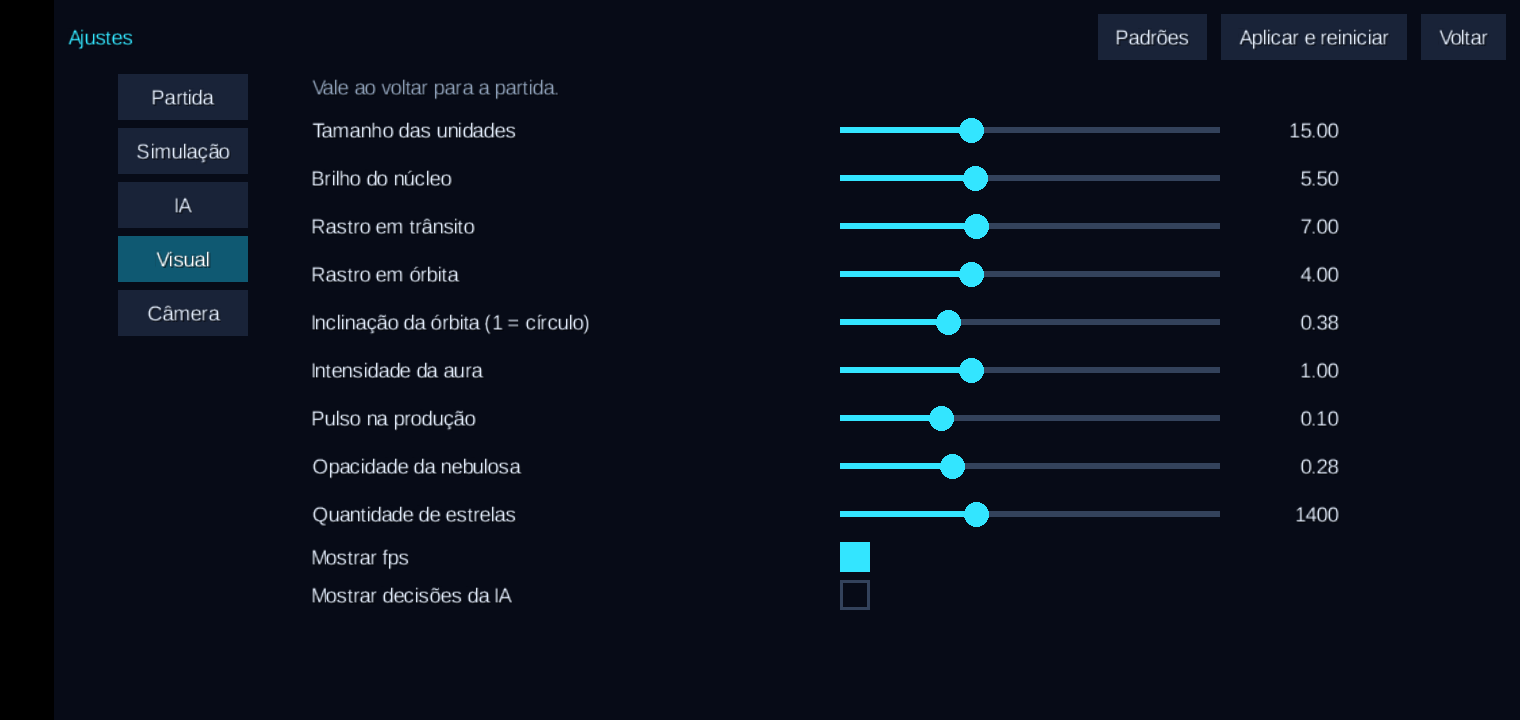
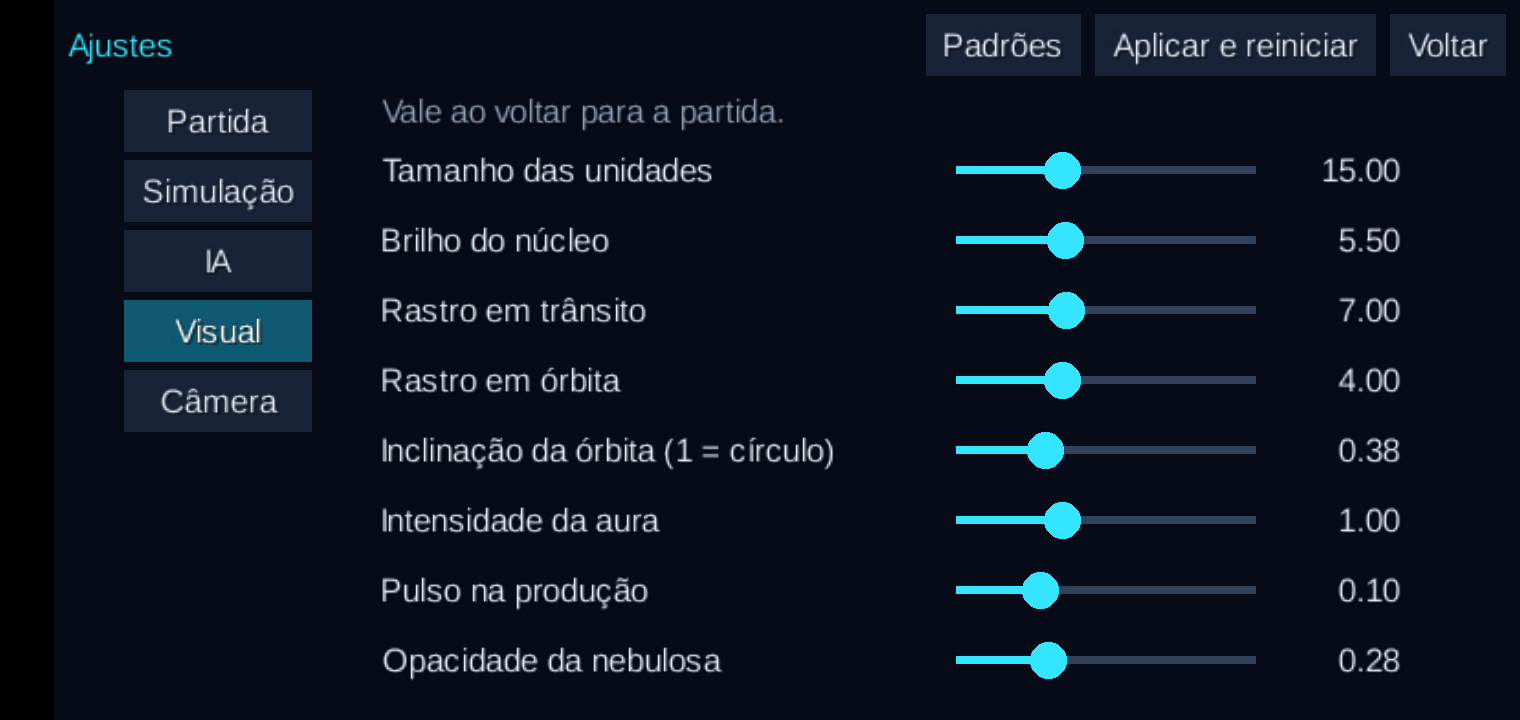
docs: capturas atuais de todas as telas (partida, IA, mapas, ajustes); rótulos sem o símbolo de grau

diff --git a/game/src/main/kotlin/dev/orbita/game/settings/Params.kt b/game/src/main/kotlin/dev/orbita/game/settings/Params.kt
@@ -99,8 +99,8 @@ object Params {
     val DEBUG_AI = bool("visual.debugAi", "Mostrar decisões da IA", Category.VISUAL, false)
 
     // ---- Câmera ----
-    val MAX_PITCH = p("camera.maxPitch", "Inclinação máxima ao aproximar (°)", Category.CAMERA, 0f, 70f, 1f, 42f)
-    val FOV = p("camera.fov", "Campo de visão (°)", Category.CAMERA, 20f, 80f, 1f, 40f)
+    val MAX_PITCH = p("camera.maxPitch", "Inclinação máxima ao aproximar (graus)", Category.CAMERA, 0f, 70f, 1f, 42f)
+    val FOV = p("camera.fov", "Campo de visão (graus)", Category.CAMERA, 20f, 80f, 1f, 40f)
     val MIN_ZOOM = p("camera.minZoom", "Zoom máximo de aproximação", Category.CAMERA, 0.2f, 0.95f, 0.01f, 0.42f)
     val MAX_ZOOM = p("camera.maxZoom", "Zoom máximo de afastamento", Category.CAMERA, 1f, 4f, 0.05f, 2.2f)
     val EDGE_RESISTANCE = p("camera.edgeResistance", "Resistência além da borda", Category.CAMERA, 0.05f, 1f, 0.01f, 0.45f)

diff --git a/README.md b/README.md
@@ -4,7 +4,9 @@
 Kotlin + libGDX, simulação determinística, bots com IA própria e 13 mapas. Feito num único dia de trabalho,
 em par com um agente de IA (Claude Code).
 
-![Partida no Órbita](docs/img/evolucao-5-texturas.png)
+![Fim de partida no Órbita: planetas evoluídos com vários planos de órbita](docs/img/planetas-evoluidos.png)
+
+*Fim de partida no Galaxy A10: o bot Agressivo (âmbar) domina com ~3.900 unidades, e o overlay mostra as decisões da IA.*
 
 > **Sobre a origem:** o projeto começou como um teste do **REA** (ferramenta de engenharia reversa via MCP)
 > usando o jogo *Auralux: Constellations* como alvo de estudo. O objetivo era validar o REA num caso real.
@@ -25,9 +27,29 @@ anulam um a um. Vence quem sobrar.
 - **Menu de ajustes** com ~60 parâmetros de simulação, IA, visual e câmera, todos editáveis no próprio jogo.
 - **60 fps** num Galaxy A10 (aparelho de entrada, ARMv7), com milhares de unidades na tela.
 
-| Mapas | Perspectiva | Ajustes da IA |
+## Telas
+
+Todas as capturas foram feitas num Galaxy A10 (Android 11) via ADB.
+
+| Partida | Decisões da IA | Câmera aproximada |
 |---|---|---|
-| ![Mapas](docs/img/mapas.png) | ![Perspectiva](docs/img/perspectiva.png) | ![Ajustes](docs/img/ajustes-ia.png) |
+| ![Partida](docs/img/partida.png) | ![Overlay da IA](docs/img/ia-overlay.png) | ![Perspectiva](docs/img/perspectiva.png) |
+
+**Mapas**
+
+| Menu de mapas | Quadrante (4 facções) | Infinito (4 facções) |
+|---|---|---|
+| ![Mapas](docs/img/mapas.png) | ![Quadrante](docs/img/mapa-quadrante.png) | ![Infinito](docs/img/mapa-infinito.png) |
+| **Cisão** | **Explosão** | **Hexágono** |
+| ![Cisão](docs/img/mapa-cisao.png) | ![Explosão](docs/img/mapa-explosao.png) | ![Hexágono](docs/img/mapa-hexagono.png) |
+
+**Ajustes:** tudo pode ser alterado sem recompilar.
+
+| Partida | Simulação | IA |
+|---|---|---|
+| ![Ajustes: Partida](docs/img/ajustes-partida.png) | ![Ajustes: Simulação](docs/img/ajustes-simulacao.png) | ![Ajustes: IA](docs/img/ajustes-ia.png) |
+| **Visual** | **Câmera** | |
+| ![Ajustes: Visual](docs/img/ajustes-visual.png) | ![Ajustes: Câmera](docs/img/ajustes-camera.png) | |
 
 ## Números
 

diff --git a/docs/05-evolucao-visual.md b/docs/05-evolucao-visual.md
@@ -54,9 +54,11 @@ redondos, as órbitas viram elipses e o toque continua exato porque usa o raio d
 
 ## Hoje
 
-| Seleção | Mapas | Perfis dos bots |
+| Partida com os perfis dos bots no HUD | Seleção | Mapa Infinito |
 |---|---|---|
-| ![Seleção](img/selecao.png) | ![Mapa Infinito](img/mapa-infinito.png) | ![HUD](img/hud-perfis.png) |
+| ![Partida](img/partida.png) | ![Seleção](img/selecao.png) | ![Mapa Infinito](img/mapa-infinito.png) |
+
+![Planetas evoluídos](img/planetas-evoluidos.png)
 
 ## Ajustes de jogabilidade (AJ-01…AJ-23)
 

diff --git a/docs/03-ia-dos-bots.md b/docs/03-ia-dos-bots.md
@@ -4,6 +4,10 @@
 
 *Overlay de debug: linhas de cada fonte até o alvo e o texto `tipo->planeta (enviado/necessário)`.*
 
+![Bot dominando o fim da partida](img/planetas-evoluidos.png)
+
+*Fim de partida: o Agressivo (âmbar) com ~3.900 unidades decide `attack->P9 (1/1)` e `attack->P7 (6/6)`. Com essa quantidade de unidades e o overlay ligado, o A10 fica em ~44 fps.*
+
 ## Princípios
 
 - **Mesma API do jogador.** Os bots só emitem `SendUnits`, exatamente como o toque do jogador. Não há bônus
